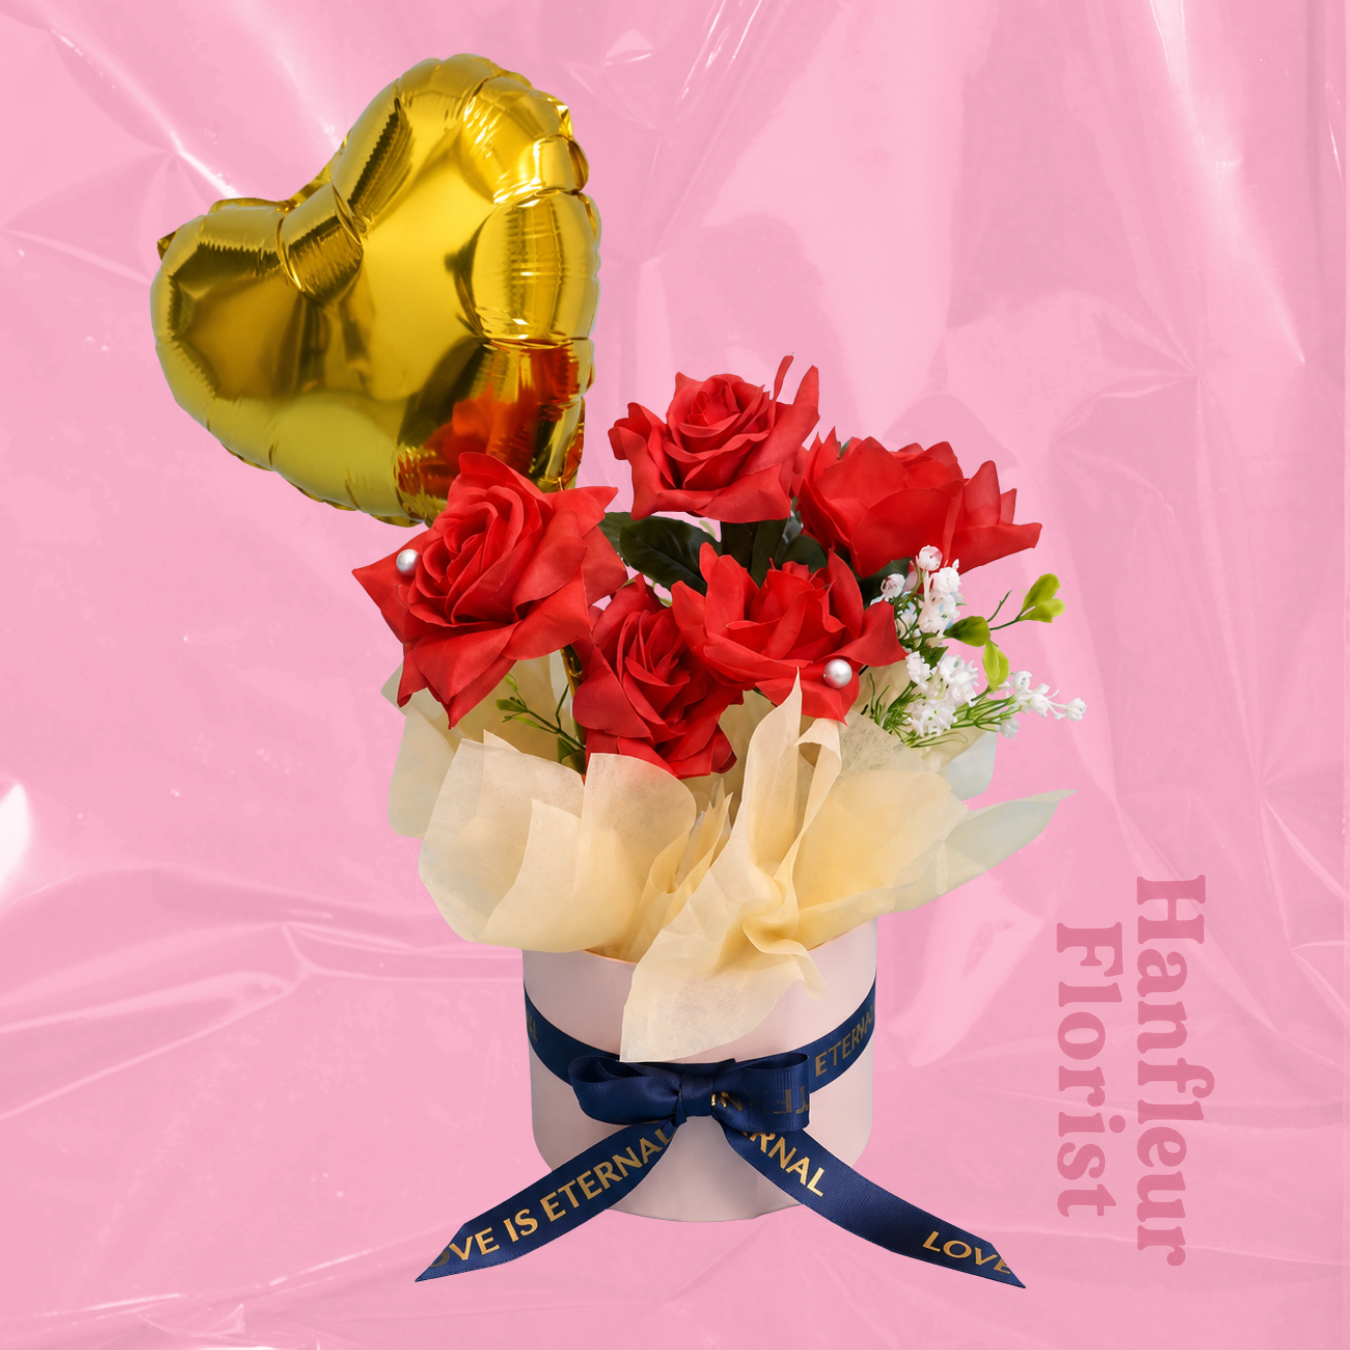
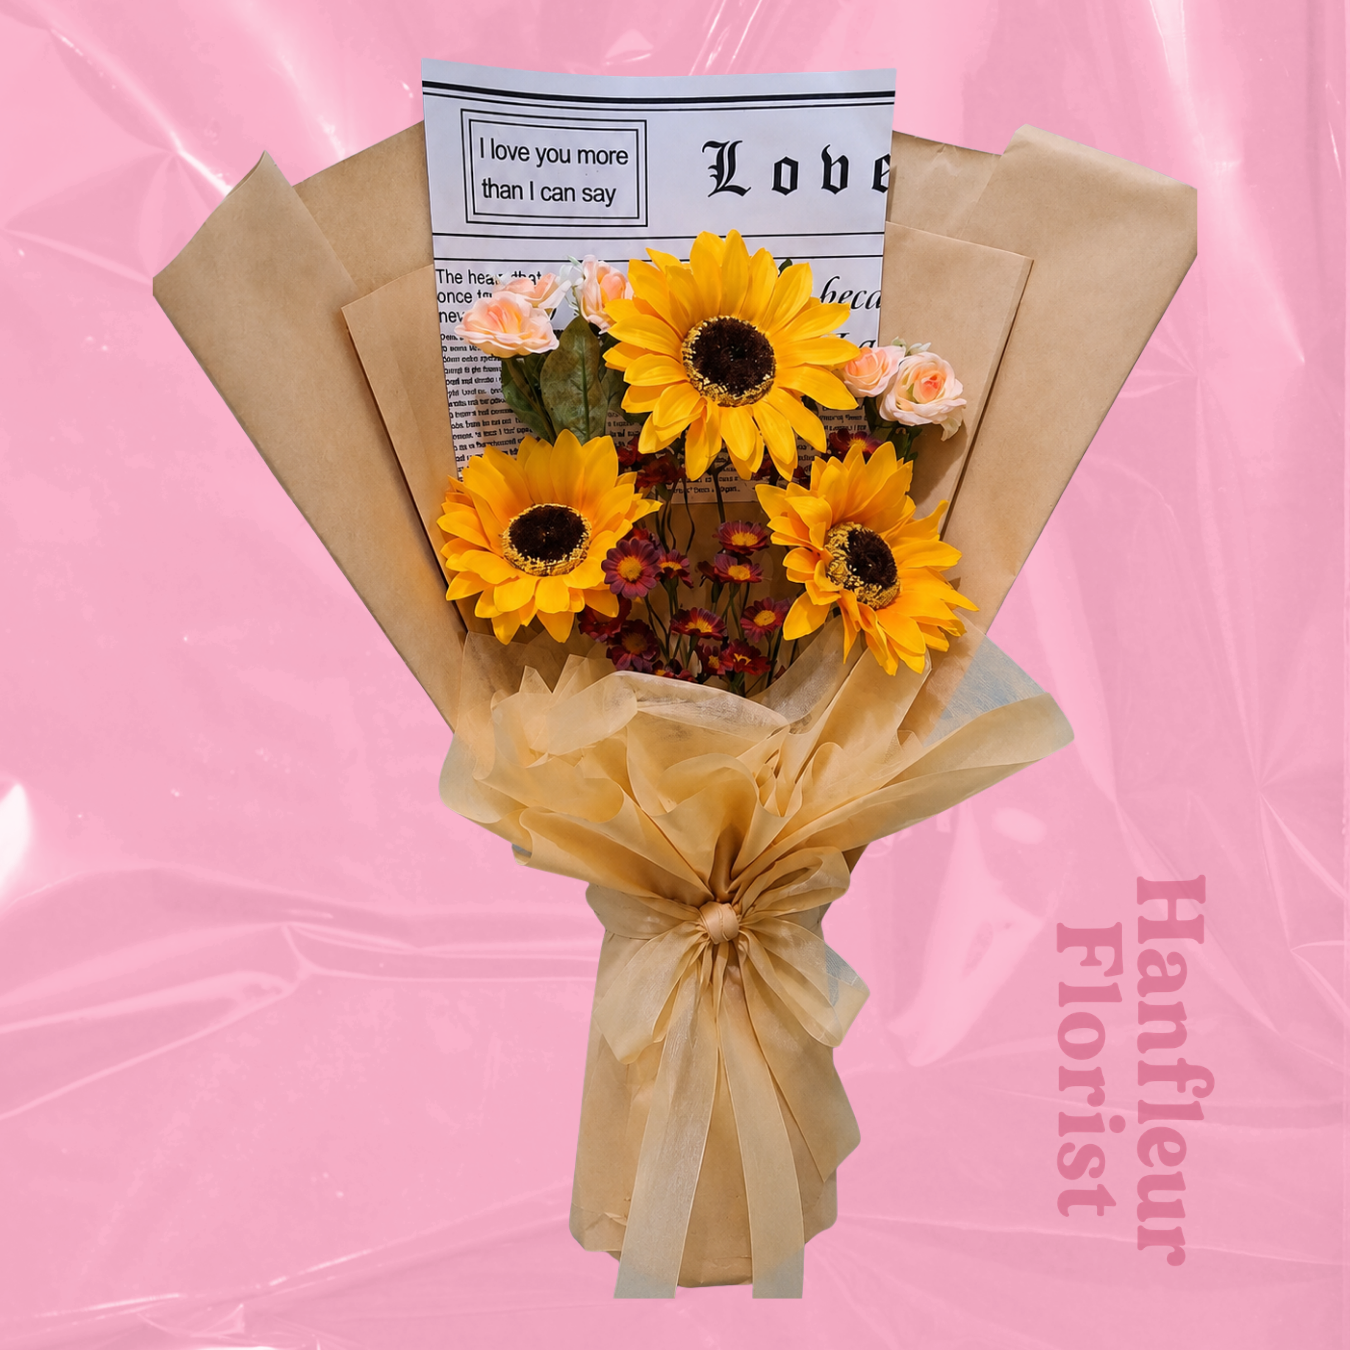
feat: add BestSellers component and associated product gallery images

diff --git a/components/best-sellers.tsx b/components/best-sellers.tsx
@@ -101,6 +101,44 @@ const products: Product[] = [
       { label: 'Pertemanan', icon: 'gift' },
     ],
   },
+  {
+    name: 'Violet Dream',
+    price: 'Rp 150.000',
+    tag: 'Favorite',
+    tagBg: 'bg-[#f3e8ff] text-[#9333ea] border-[#d8b4fe]',
+    desc: 'Kombinasi warna ungu dan biru yang memberikan kesan mewah dan menenangkan.',
+    image: '/gallery/flower-6.png',
+    images: ['/gallery/flower-6.png', '/gallery/flower-7.png', '/gallery/flower-1.png', '/gallery/flower-2.png', '/gallery/flower-3.png'],
+    details: [
+      'Purple & Blue theme',
+      'Exclusive satin ribbon',
+      'Premium wrapping',
+    ],
+    suitableFor: [
+      { label: 'Ulang Tahun', icon: 'cake' },
+      { label: 'Anniversary', icon: 'heart' },
+      { label: 'Kelulusan', icon: 'gift' },
+    ],
+  },
+  {
+    name: 'Classic White',
+    price: 'Rp 150.000',
+    tag: 'Elegant',
+    tagBg: 'bg-[#f1f5f9] text-[#475569] border-[#cbd5e1]',
+    desc: 'Kesederhanaan yang indah dalam balutan putih murni, melambangkan ketulusan.',
+    image: '/gallery/flower-7.png',
+    images: ['/gallery/flower-7.png', '/gallery/flower-1.png', '/gallery/flower-2.png', '/gallery/flower-3.png', '/gallery/flower-4.png'],
+    details: [
+      'Pure White roses',
+      'Minimalist design',
+      'Eco-friendly wrapper',
+    ],
+    suitableFor: [
+      { label: 'Pernikahan', icon: 'heart' },
+      { label: 'Simpati', icon: 'heart' },
+      { label: 'Terima Kasih', icon: 'gift' },
+    ],
+  },
 ]
 
 export function BestSellers() {